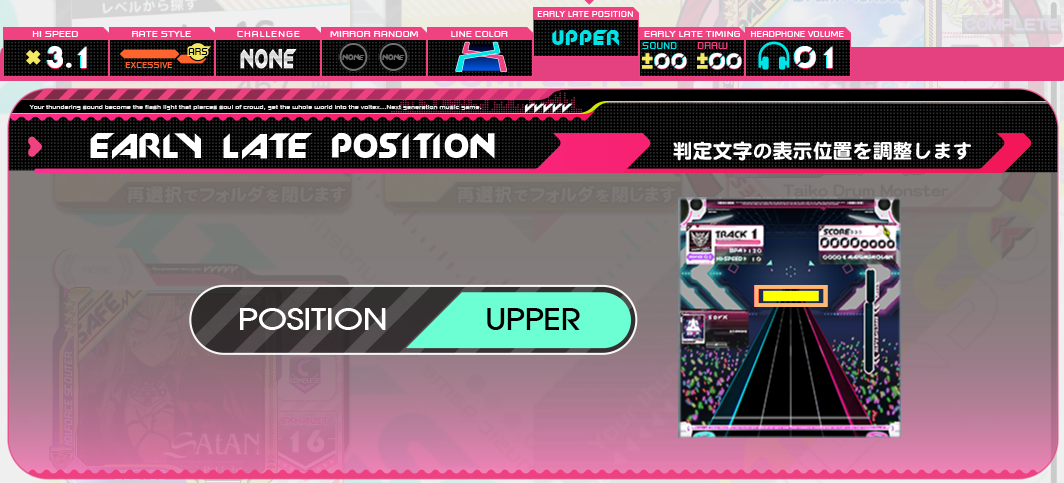
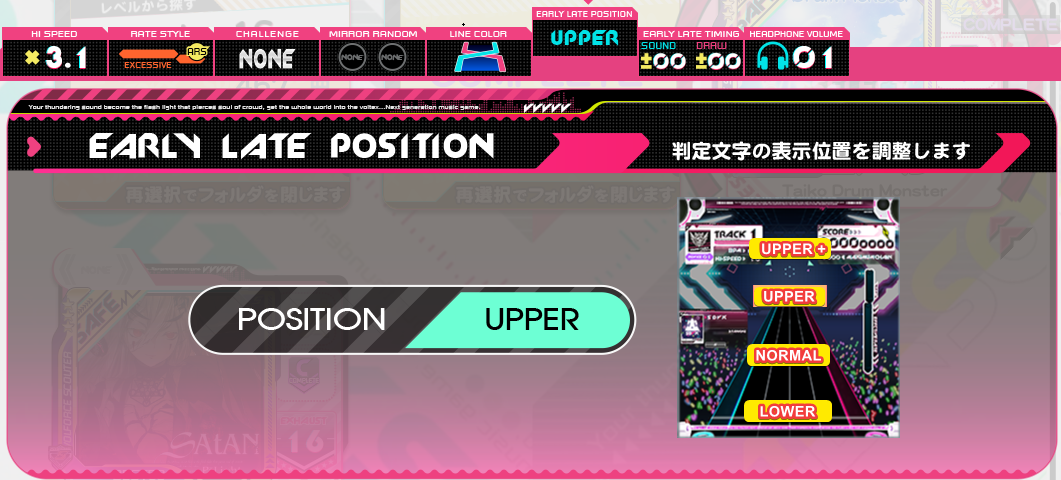
early/late position and offset menu explained

diff --git a/index.html b/index.html
@@ -34,7 +34,7 @@
 
         <h1>Salut à toi, passager.</h1>
         <hr>
-        <p id = p>
+        <p>
             Tu as fait le bon choix en scannant ce code QR. Un bon équipier du vaisseau doit savoir s'en remettre au
             manuel des machines lorsqu'il ne sait pas encore s'en servir correctement.
         </p>
@@ -347,10 +347,17 @@
         <h3>&nbsp;&nbsp;► Line Color</h3>
         <p>Les paramètres offrent la possibilité de changer la couleur des lazers gauche et droit, si vous n'êtes pas à l'aise avec les couleurs par défault vous pourrez changer parmi <b>Bleu</b>, <b>Rouge</b>, <b>Jaune</b> et <b>Vert</b>.</p>   
         <img src="img/options_linecolor.png" alt = "Line color menu">
-        <h3>&nbsp;&nbsp;► Early/Late position</h3>
-      
-
-    
+        <h3 id = "earlylateposition">&nbsp;&nbsp;► <b id = "early">Early</b> / <b id = "late">Late</b> position</h3>
+        <p>Vous avez la possibilité de régler l'emplacement des <b id = "early">EARLY</b> / <b id = "late">LATE</b> ou vous voulez sur l'écran, si vous voulez les avoir en plein millieu pour pouvoir ajuster votre précision en temps réel, je conseille de choisir <b>UPPER</b>, si vous ne voulez pas les voir pendant que vous jouez, vous pouvez laisser par défault c'est a dire sur <b>LOWER</b></p>
+        <img src="img/options_nearposition.png" alt="Early/Late position menu">
+        <h3>&nbsp;&nbsp;► L'offset</h3>
+        <p>Dans Sound Voltex, la <b>précision</b> est la clé de la réussite, pas de <b>précision</b>, pas de bon scores, pas de <a href="volforce"><b>Volforce</b></a> et pas de S. Mais il est possible que vous vous sentez précis et que vous ne voyez que des <b id = "early">Early</b> ou que des <b id  = "late">Late</b>. Si c'est le cas, le problème ne vient pas forcément de vous; Entre le hardware de la borne, le périphérique audio et surtout votre propre décalage auditif, il n'est pas anodin d'avoir besoin de régler un décalage précis pour bien s'adapter à son rythme.</p>
+        <p><b>Pour trouver son décalage</b> vous pouvez regarder à la fin de ses tracks le nombre de <b id = "early">Early</b> / <b id = "late">Late</b> et regarder si un revient plus souvent que l'autre. Vous pouvez aussi régler votre <a href="#earlylateposition"><b>Early/Late position</b></a> sur <b>UPPER</b> et observer en direct le Early ou le Late sur une note ou vous êtes sur que  vous avez été précis. Chose importante, je conseille fortement de faire tout ça sur des charts que vous maitrisez, n'hésitez pas à prendre un niveau facile pour vous afin d'avoir un résultat précis à la fin.</p>
+        <img src="img/options_offest.png" alt="Offset menu">
+        <p><b>Pour régler son offset</b> il faut savoir qu'il y a deux types d'offset assez différents:</p>
+        <p><b>Le sound timing</b> vous permetra d'ajuster le décalage du son, allant de - 10ms à + 10ms. En utilisant <b>VOL-L</b>, mettez un offset <b id="early">+</b> si vous avez trop de <b id = "early">Early</b> et un offset <b id="late">-</b> si vous avez trop de <b id = "late">Late.</b></p>
+        <p><b>Le draw timing</b> est un offset visuel qui permet d'ajuster le décalage de la ligne de jugement, allant de - 10ms à + 10ms. En utilisant <b>VOL-R</b>, mettez un offset <b id="early">+</b> si vous avez trop de <b id = "early">Early</b> et un offset <b id="late">-</b> si vous avez trop de <b id = "late">Late.</b></p>
+        <p>Si vous ne savez pas lequel utiliser, je vous conseillerai d'utiliser de <b>Sound timing.</b></p>
     </div>
 
 

diff --git a/main.css b/main.css
@@ -150,3 +150,10 @@ a, a:visited{
     height: 300px;
 }    
 
+#early {
+    color: red;
+}
+
+#late {
+    color: #6158e6;
+}
